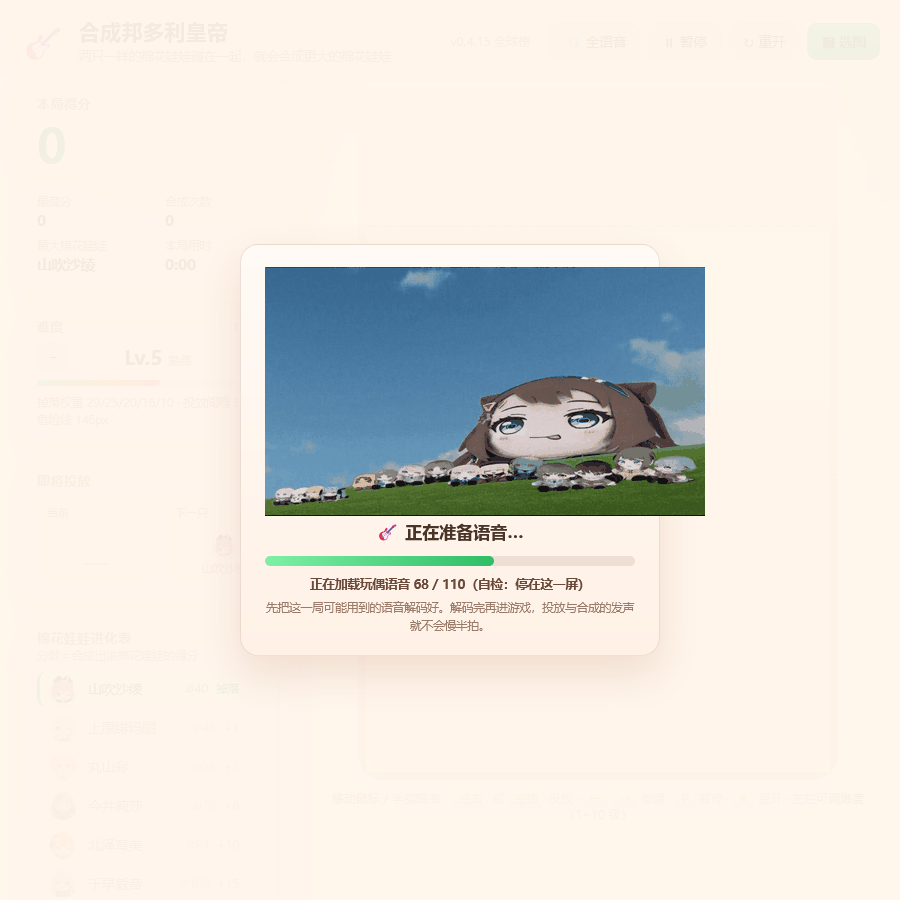
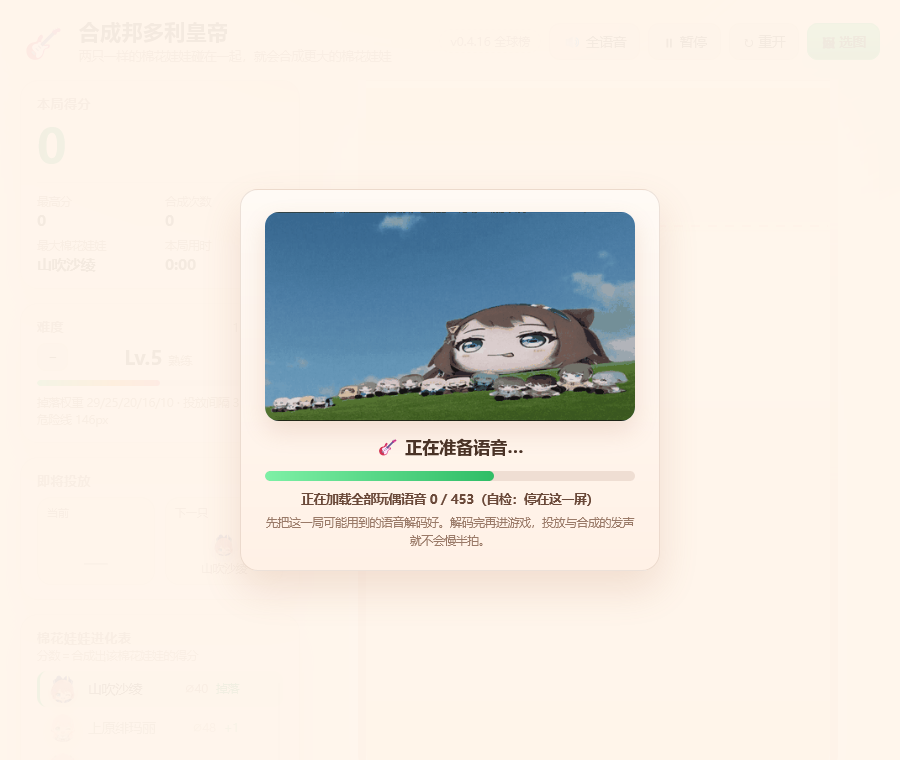
feat(loading): 对齐+手机自适配；预取全部语音（453 条）

Changed region(s): [[0.28, 0.2724, 0.8089, 0.7263]]

diff --git a/js/audio.js b/js/audio.js
@@ -1,4 +1,4 @@
-/*!
+/*!
  * 合成邦多利皇帝 · 音频加载器（可选的文件音效）
  *
  * 设计原则：**零配置、缺文件不报错**
@@ -29,6 +29,7 @@
 
     var ctx = null;
     var buffers = {}; // key -> AudioBuffer（已解码）
+    var rawCache = {}; // name -> ArrayBuffer（已下载、未解码；加载页预取用）
     var bufferOrder = []; // 解码缓存的 LRU 顺序（防止切很多角色后内存无限涨）
     var absent = {}; // key -> true（确定没有这个文件，别再试）
     var pending = {}; // key -> Promise
@@ -144,6 +145,35 @@
           .then(function (res) {
             return res.arrayBuffer();
           })
+          .then(function (buf) {
+            return new Promise(function (resolve, reject) {
+              var ret = ac.decodeAudioData(buf, resolve, reject);
+              if (ret && ret.then) ret.then(resolve, reject);
+            });
+          })
+          .then(function (audioBuf) {
+            rememberBuffer(name, audioBuf);
+            return audioBuf;
+          })
+          .catch(function () {
+            absent[name] = true;
+            return null;
+          })
+          .then(function (b) {
+            delete pending[name];
+            return b;
+          });
+        return pending[name];
+      }
+
+      /*
+       * 已经有原始字节（加载页预取过）就直接解码，不再走网络 ——
+       * 这样「所有语音都预取好、按需解码」既能保证不缺音，又不会把内存吃光。
+       */
+      if (rawCache[name]) {
+        pending[name] = new Promise(function (resolve) {
+          resolve(rawCache[name]);
+        })
           .then(function (buf) {
             return new Promise(function (resolve, reject) {
               var ret = ac.decodeAudioData(buf, resolve, reject);
@@ -324,11 +354,85 @@
       });
     }
 
+    /**
+     * 只下载、不解码（加载页把「所有语音」都拉下来时用）。
+     *
+     * 为什么不直接解码全部：解码后是 Float32 PCM 常驻内存，
+     * 一条 2~3 秒的语音就 ≈1MB，全部 300 条 ≈ 几百 MB，手机会直接崩。
+     * 所以策略是：**全部下载**（合计约 7MB，随便放）+ **按需解码**（LRU 上限内）。
+     */
+    function prefetchFile(name) {
+      if (rawCache[name]) return Promise.resolve(rawCache[name]);
+      if (absent[name]) return Promise.resolve(null);
+      if (!fetchFn) {
+        absent[name] = true;
+        return Promise.resolve(null);
+      }
+      if (typeof pending['raw:' + name] !== 'undefined') return pending['raw:' + name];
+      var order = workingExt ? [workingExt].concat(formats.filter(function (f) { return f !== workingExt; })) : formats;
+      var i = 0;
+      var tryNext = function () {
+        if (i >= order.length) {
+          absent[name] = true;
+          return null;
+        }
+        var url = base + name + '.' + order[i++];
+        return fetchFn(url)
+          .then(function (res) {
+            if (!res || !res.ok) throw new Error('http ' + (res && res.status));
+            return res.arrayBuffer();
+          })
+          .then(function (buf) {
+            rawCache[name] = buf;
+            workingExt = order[i - 1];
+            return buf;
+          })
+          .catch(tryNext);
+      };
+      pending['raw:' + name] = tryNext().then(function (b) {
+        delete pending['raw:' + name];
+        return b;
+      });
+      return pending['raw:' + name];
+    }
+
+    /** 批量预取（下载）。并发放宽到 4（下载是 I/O，不像解码那样占主线程） */
+    function prefetchMany(names, onProgress) {
+      var queue = (names || []).slice();
+      var total = queue.length;
+      var done = 0;
+      if (!total) return Promise.resolve({ total: 0, done: 0 });
+      function worker() {
+        if (!queue.length) return Promise.resolve();
+        var name = queue.shift();
+        return prefetchFile(name).then(function () {
+          done += 1;
+          if (onProgress) {
+            try {
+              onProgress(done, total);
+            } catch (e) {
+              /* 忽略 */
+            }
+          }
+          return worker();
+        });
+      }
+      var workers = [];
+      for (var k = 0; k < 4; k++) workers.push(worker());
+      return Promise.all(workers).then(function () {
+        return { total: total, done: done, bytes: 0 };
+      });
+    }
+
     return {
       play: play,
       preload: preload,
       preloadMany: preloadMany,
+      prefetchMany: prefetchMany,
       nameList: nameList,
+      rawCount: function () {
+        return Object.keys(rawCache).length;
+      },
       /** 某个 key 的音频是否已经就绪（测试/自检用） */
       isReady: function (key, tier, id) {
         var list = fileListFor(key, tier, id) || [];

diff --git a/js/game.js b/js/game.js
@@ -554,12 +554,22 @@ var limiter = CFG.createAudioLimiter();
         resolve();
         return;
       }
-      /* 预加载清单：当前阵容每一级的 drop + merge，再加界面音效 */
+      /*
+       * 预取清单：**图库里所有玩偶**的 drop + merge（不管在不在当前 11 个位子里），
+       * 再加界面音效。全部先下载下来（合计约 7MB），解码仍然按需 ——
+       * 否则 300 条全部解码会吃掉几百 MB 内存。
+       */
       var names = [];
-      for (var tier = 1; tier <= CFG.RULES.maxTier; tier++) {
-        var id = assets.idOf(tier);
-        if (!id) continue;
-        names = names.concat(fa.nameList(['drop', 'merge'], { id: id }));
+      var allIds = assets.allIds ? assets.allIds() : [];
+      for (var vi = 0; vi < allIds.length; vi++) {
+        names = names.concat(fa.nameList(['drop', 'merge'], { id: allIds[vi] }));
+      }
+      /* 兜底：万一拿不到图库清单，至少把当前阵容的预取上 */
+      if (!names.length) {
+        for (var tier = 1; tier <= CFG.RULES.maxTier; tier++) {
+          var tid = assets.idOf(tier);
+          if (tid) names = names.concat(fa.nameList(['drop', 'merge'], { id: tid }));
+        }
       }
       names = names.concat(fa.nameList(['warn', 'over', 'click']));
       if (!names.length) {
@@ -595,19 +605,22 @@ var limiter = CFG.createAudioLimiter();
        */
       if (/[?&]loading=1/.test(root.location.search)) {
         if (bar) bar.style.width = '62%';
-        if (note) note.textContent = '正在加载玩偶语音 68 / 110（自检：停在这一屏）';
+        if (note) note.textContent = '正在加载全部玩偶语音 0 / ' + names.length + '（自检：停在这一屏）';
         return;
       }
-      /* 超时兜底：网络慢也别把玩家卡在加载页 */
-      root.setTimeout(finish, 8000);
-      fa
-        .preloadMany(names, function (done, total) {
+      /* 超时兜底：网络慢也别把玩家卡在加载页（30 秒，全部语音 7MB 左右） */
+      root.setTimeout(finish, 30000);
+      var prefetch = fa.prefetchMany || fa.preloadMany;
+      prefetch
+        .call(fa, names, function (done, total) {
           var pct = total ? Math.round((done / total) * 100) : 100;
           if (bar) bar.style.width = pct + '%';
-          if (note) note.textContent = '正在加载玩偶语音 ' + done + ' / ' + total;
+          if (note) note.textContent = '正在加载全部玩偶语音 ' + done + ' / ' + total;
         })
         .then(function (res) {
-          if (note) note.textContent = '语音已就绪（' + (res ? res.done : 0) + ' 条）';
+          if (note) note.textContent = '全部语音已就绪（' + (res ? res.done : 0) + ' 条）';
+          /* 预取完成后，把当前/下一只需要用到的先解码好，进游戏就是原声 */
+          warmVoices();
           finish();
         });
     });

diff --git a/voice-preview.html b/voice-preview.html
@@ -5,7 +5,7 @@
     <meta name="viewport" content="width=device-width, initial-scale=1, viewport-fit=cover" />
     <meta name="color-scheme" content="dark" />
     <title>合成邦多利皇帝 · BanG Dream! 棉花娃娃版 · 语音试听版</title>
-    <link rel="stylesheet" href="css/style.css?v=0.4.16" />
+    <link rel="stylesheet" href="css/style.css?v=0.4.17" />
     <style>
     .try-badge { font-size: 13px; font-weight: 400; color: #9a7a68; margin-left: 10px; }
   </style>
@@ -196,7 +196,7 @@
       // 试听页打开音频自检：第一次点击会响一声「叮」并报状态
       window.SUIKA_AUDIO_SELFTEST = true;
     </script>
-    <script src="vendor/matter.min.js?v=0.4.16"></script>
+    <script src="vendor/matter.min.js?v=0.4.17"></script>
     <!--
       直接双击打开（file://）时浏览器不允许 fetch 本地文件，语音会加载不到；
       这种情况下补上内联语音数据（assets/voice-inline.js，约 9MB）。
@@ -207,18 +207,18 @@
         document.write('<script src="assets/voice-inline.js"><\/script>');
       }
     </script>
-    <script src="js/config.js?v=0.4.16"></script>
-    <script src="js/audio.js?v=0.4.16"></script>
-    <script src="js/library.js?v=0.4.16"></script>
-    <script src="js/assets-builtin.js?v=0.4.16"></script>
-    <script src="js/assets.js?v=0.4.16"></script>
-    <script src="js/boards.js?v=0.4.16"></script>
-    <script src="js/transport.js?v=0.4.16"></script>
-    <script src="js/sync.js?v=0.4.16"></script>
-    <script src="js/engine.js?v=0.4.16"></script>
-    <script src="js/render.js?v=0.4.16"></script>
-    <script src="js/ui.js?v=0.4.16"></script>
-    <script src="js/picker.js?v=0.4.16"></script>
-    <script src="js/game.js?v=0.4.16"></script>
+    <script src="js/config.js?v=0.4.17"></script>
+    <script src="js/audio.js?v=0.4.17"></script>
+    <script src="js/library.js?v=0.4.17"></script>
+    <script src="js/assets-builtin.js?v=0.4.17"></script>
+    <script src="js/assets.js?v=0.4.17"></script>
+    <script src="js/boards.js?v=0.4.17"></script>
+    <script src="js/transport.js?v=0.4.17"></script>
+    <script src="js/sync.js?v=0.4.17"></script>
+    <script src="js/engine.js?v=0.4.17"></script>
+    <script src="js/render.js?v=0.4.17"></script>
+    <script src="js/ui.js?v=0.4.17"></script>
+    <script src="js/picker.js?v=0.4.17"></script>
+    <script src="js/game.js?v=0.4.17"></script>
 </body>
 </html>

diff --git a/index.html b/index.html
@@ -5,7 +5,7 @@
     <meta name="viewport" content="width=device-width, initial-scale=1, viewport-fit=cover" />
     <meta name="color-scheme" content="dark" />
     <title>合成邦多利皇帝 · BanG Dream! 棉花娃娃版</title>
-    <link rel="stylesheet" href="css/style.css?v=0.4.16" />
+    <link rel="stylesheet" href="css/style.css?v=0.4.17" />
   </head>
   <body>
     <div class="app">
@@ -183,7 +183,7 @@
         };
       })();
     </script>
-    <script src="vendor/matter.min.js?v=0.4.16"></script>
+    <script src="vendor/matter.min.js?v=0.4.17"></script>
     <!--
       直接双击打开（file://）时浏览器不允许 fetch 本地文件，语音会加载不到；
       这种情况下补上内联语音数据（assets/voice-inline.js，约 9MB）。
@@ -194,18 +194,18 @@
         document.write('<script src="assets/voice-inline.js"><\/script>');
       }
     </script>
-    <script src="js/config.js?v=0.4.16"></script>
-    <script src="js/audio.js?v=0.4.16"></script>
-    <script src="js/library.js?v=0.4.16"></script>
-    <script src="js/assets-builtin.js?v=0.4.16"></script>
-    <script src="js/assets.js?v=0.4.16"></script>
-    <script src="js/boards.js?v=0.4.16"></script>
-    <script src="js/transport.js?v=0.4.16"></script>
-    <script src="js/sync.js?v=0.4.16"></script>
-    <script src="js/engine.js?v=0.4.16"></script>
-    <script src="js/render.js?v=0.4.16"></script>
-    <script src="js/ui.js?v=0.4.16"></script>
-    <script src="js/picker.js?v=0.4.16"></script>
-    <script src="js/game.js?v=0.4.16"></script>
+    <script src="js/config.js?v=0.4.17"></script>
+    <script src="js/audio.js?v=0.4.17"></script>
+    <script src="js/library.js?v=0.4.17"></script>
+    <script src="js/assets-builtin.js?v=0.4.17"></script>
+    <script src="js/assets.js?v=0.4.17"></script>
+    <script src="js/boards.js?v=0.4.17"></script>
+    <script src="js/transport.js?v=0.4.17"></script>
+    <script src="js/sync.js?v=0.4.17"></script>
+    <script src="js/engine.js?v=0.4.17"></script>
+    <script src="js/render.js?v=0.4.17"></script>
+    <script src="js/ui.js?v=0.4.17"></script>
+    <script src="js/picker.js?v=0.4.17"></script>
+    <script src="js/game.js?v=0.4.17"></script>
 </body>
 </html>

diff --git a/css/style.css b/css/style.css
@@ -1749,6 +1749,8 @@ kbd {
   padding: 24px;
   background: rgba(255, 245, 236, 0.94);
   backdrop-filter: blur(3px);
+  /* 保险：加载层自己绝不产生横向溢出 */
+  overflow: hidden;
 }
 
 /* 作者样式里的 display 会盖掉 hidden，这里显式让位（踩过一次） */
@@ -1804,4 +1806,40 @@ kbd {
   font-size: 11.5px;
   line-height: 1.6;
   color: #9a7a68;
+}
+
+/* 加载页插图：宽度和进度条一致（都占卡片内容宽度，两端对齐） */
+
+.loading-art {
+  display: block;
+  width: 100%;
+  max-width: 100%;
+  height: auto;
+  /* 手机上别把卡片顶出屏幕：限制高度并保持比例 */
+  max-height: 38vh;
+  object-fit: contain;
+  margin: 0 0 14px;
+  border-radius: 14px;
+  background: #cfe8ff;
+  box-shadow: 0 10px 24px rgba(176, 116, 84, 0.18);
+}
+
+@media (max-width: 560px) {
+  .loading-art {
+    max-height: 32vh;
+    margin-bottom: 12px;
+  }
+
+  .loading-card {
+    padding: 16px 16px 16px;
+  }
+
+  .loading-title {
+    font-size: 15px;
+    margin-bottom: 10px;
+  }
+
+  .loading-hint {
+    font-size: 11px;
+  }
 }

diff --git a/js/assets.js b/js/assets.js
@@ -251,6 +251,12 @@
       hasLibrary: hasLibrary,
       shapeOf: shapeOf,
       idOf: idOf,
+      /** 图库里所有玩偶的 id（加载页要把「所有语音」都预取下来时用） */
+      allIds: function () {
+        return (library.images || []).map(function (img) {
+          return img.id;
+        });
+      },
       sourceOf: sourceOf,
       preload: preload,
       preloadAll: preloadAll,

diff --git a/js/config.js b/js/config.js
@@ -9,7 +9,7 @@
 })(typeof globalThis !== 'undefined' ? globalThis : this, function () {
   'use strict';
 
-  var VERSION = '0.4.16';
+  var VERSION = '0.4.17';
 
   /* 画布与场地（逻辑像素，渲染时按 devicePixelRatio 放大） */
   var BOARD = {
